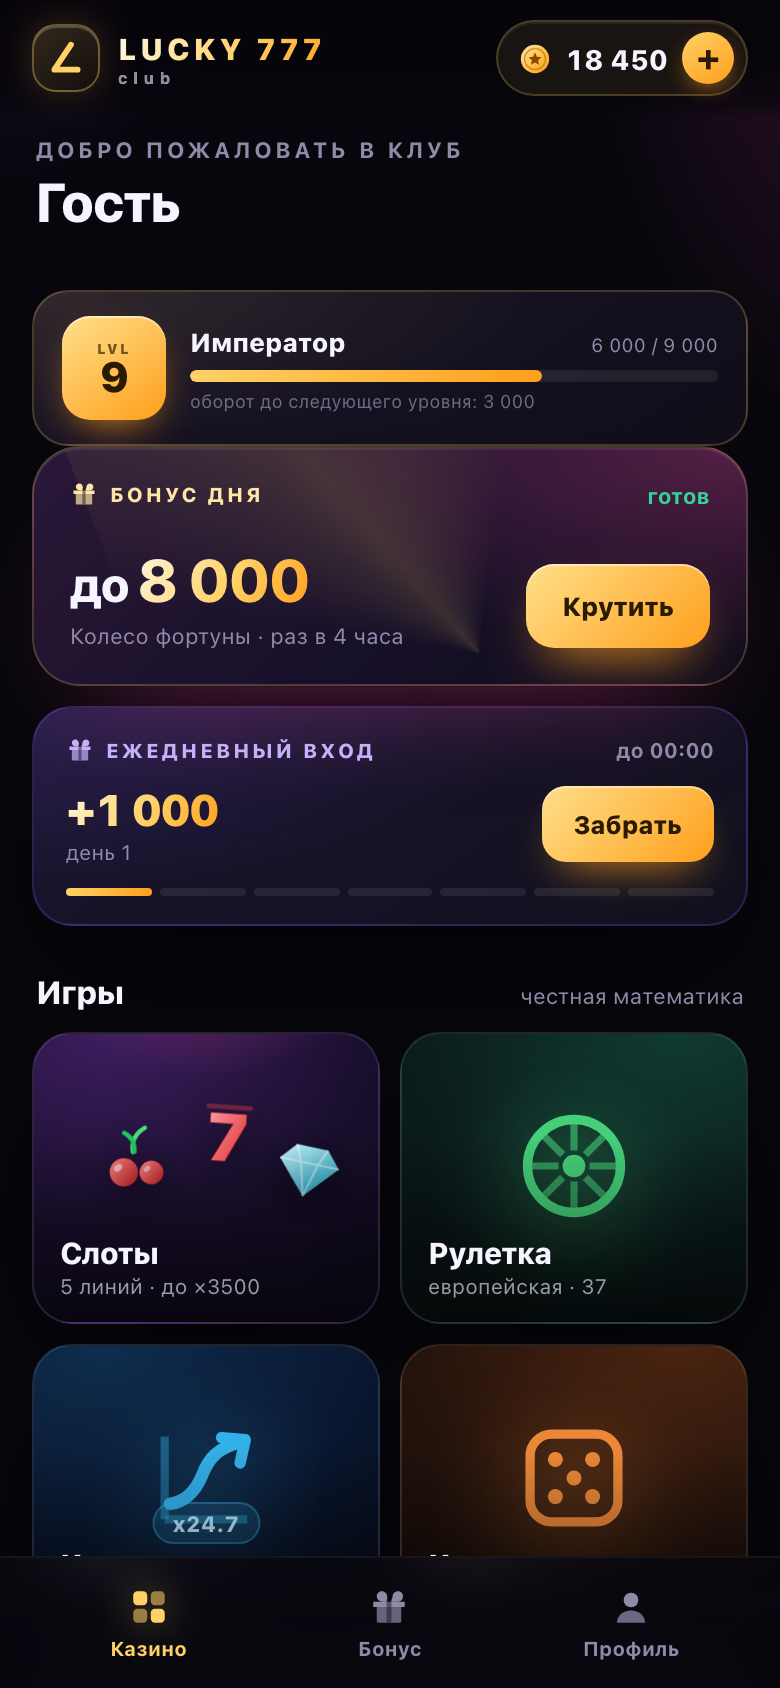
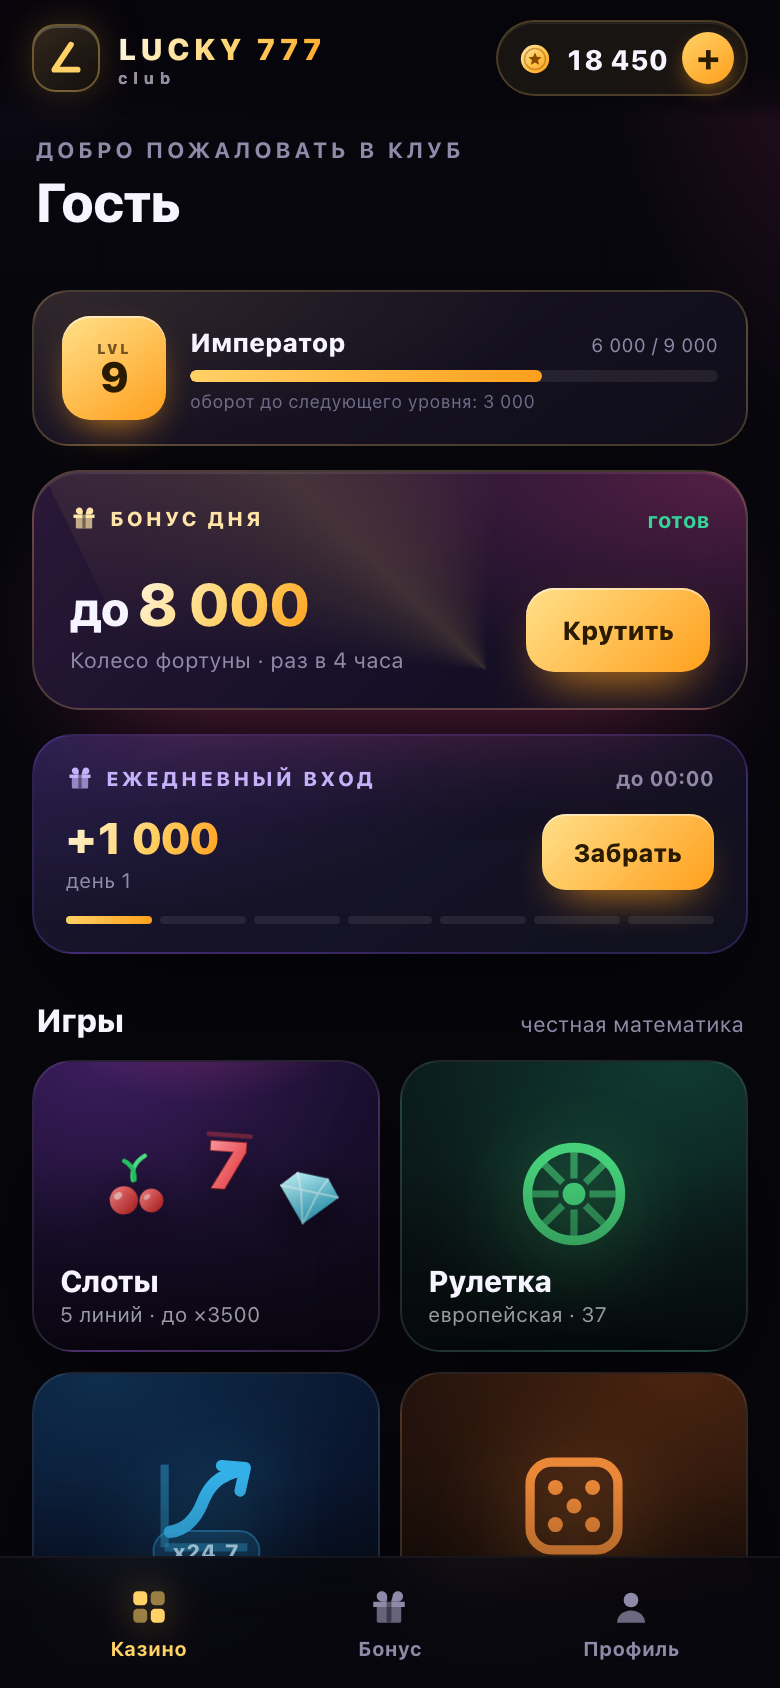
Fix level card spacing

Changed region(s): [[0.0308, 0.2464, 0.9538, 0.9242], [0.3385, 0.6777, 0.4308, 0.7393]]

diff --git a/css/app.css b/css/app.css
@@ -1023,7 +1023,7 @@ body.is-game .tabbar { transform: translateX(-50%) translateY(110%); }
 
 /* ───────────── DAILY LOGIN ───────────── */
 .daily-card {
-  margin-top: 10px;
+  margin-top: 12px;
   padding: 14px 16px;
   border-radius: 20px;
   background:
@@ -1385,7 +1385,7 @@ body.is-sheet { overflow: hidden; }
 /* ───────────── уровни ───────────── */
 .level-card {
   display: flex; align-items: center; gap: 12px;
-  margin-top: 12px; padding: 12px 14px;
+  margin: 12px 0; padding: 12px 14px;
   border-radius: 18px;
   background:
     radial-gradient(120% 160% at 0% 0%, rgba(255, 209, 102, 0.1), transparent 60%),
@@ -1393,7 +1393,7 @@ body.is-sheet { overflow: hidden; }
   border: 1px solid rgba(255, 209, 102, 0.22);
   box-shadow: var(--shadow);
 }
-.level-card--profile { margin-bottom: 2px; }
+.level-card--profile { margin-bottom: 0; }
 .level-badge {
   flex: 0 0 52px; width: 52px; height: 52px; border-radius: 14px;
   display: flex; flex-direction: column; align-items: center; justify-content: center;
